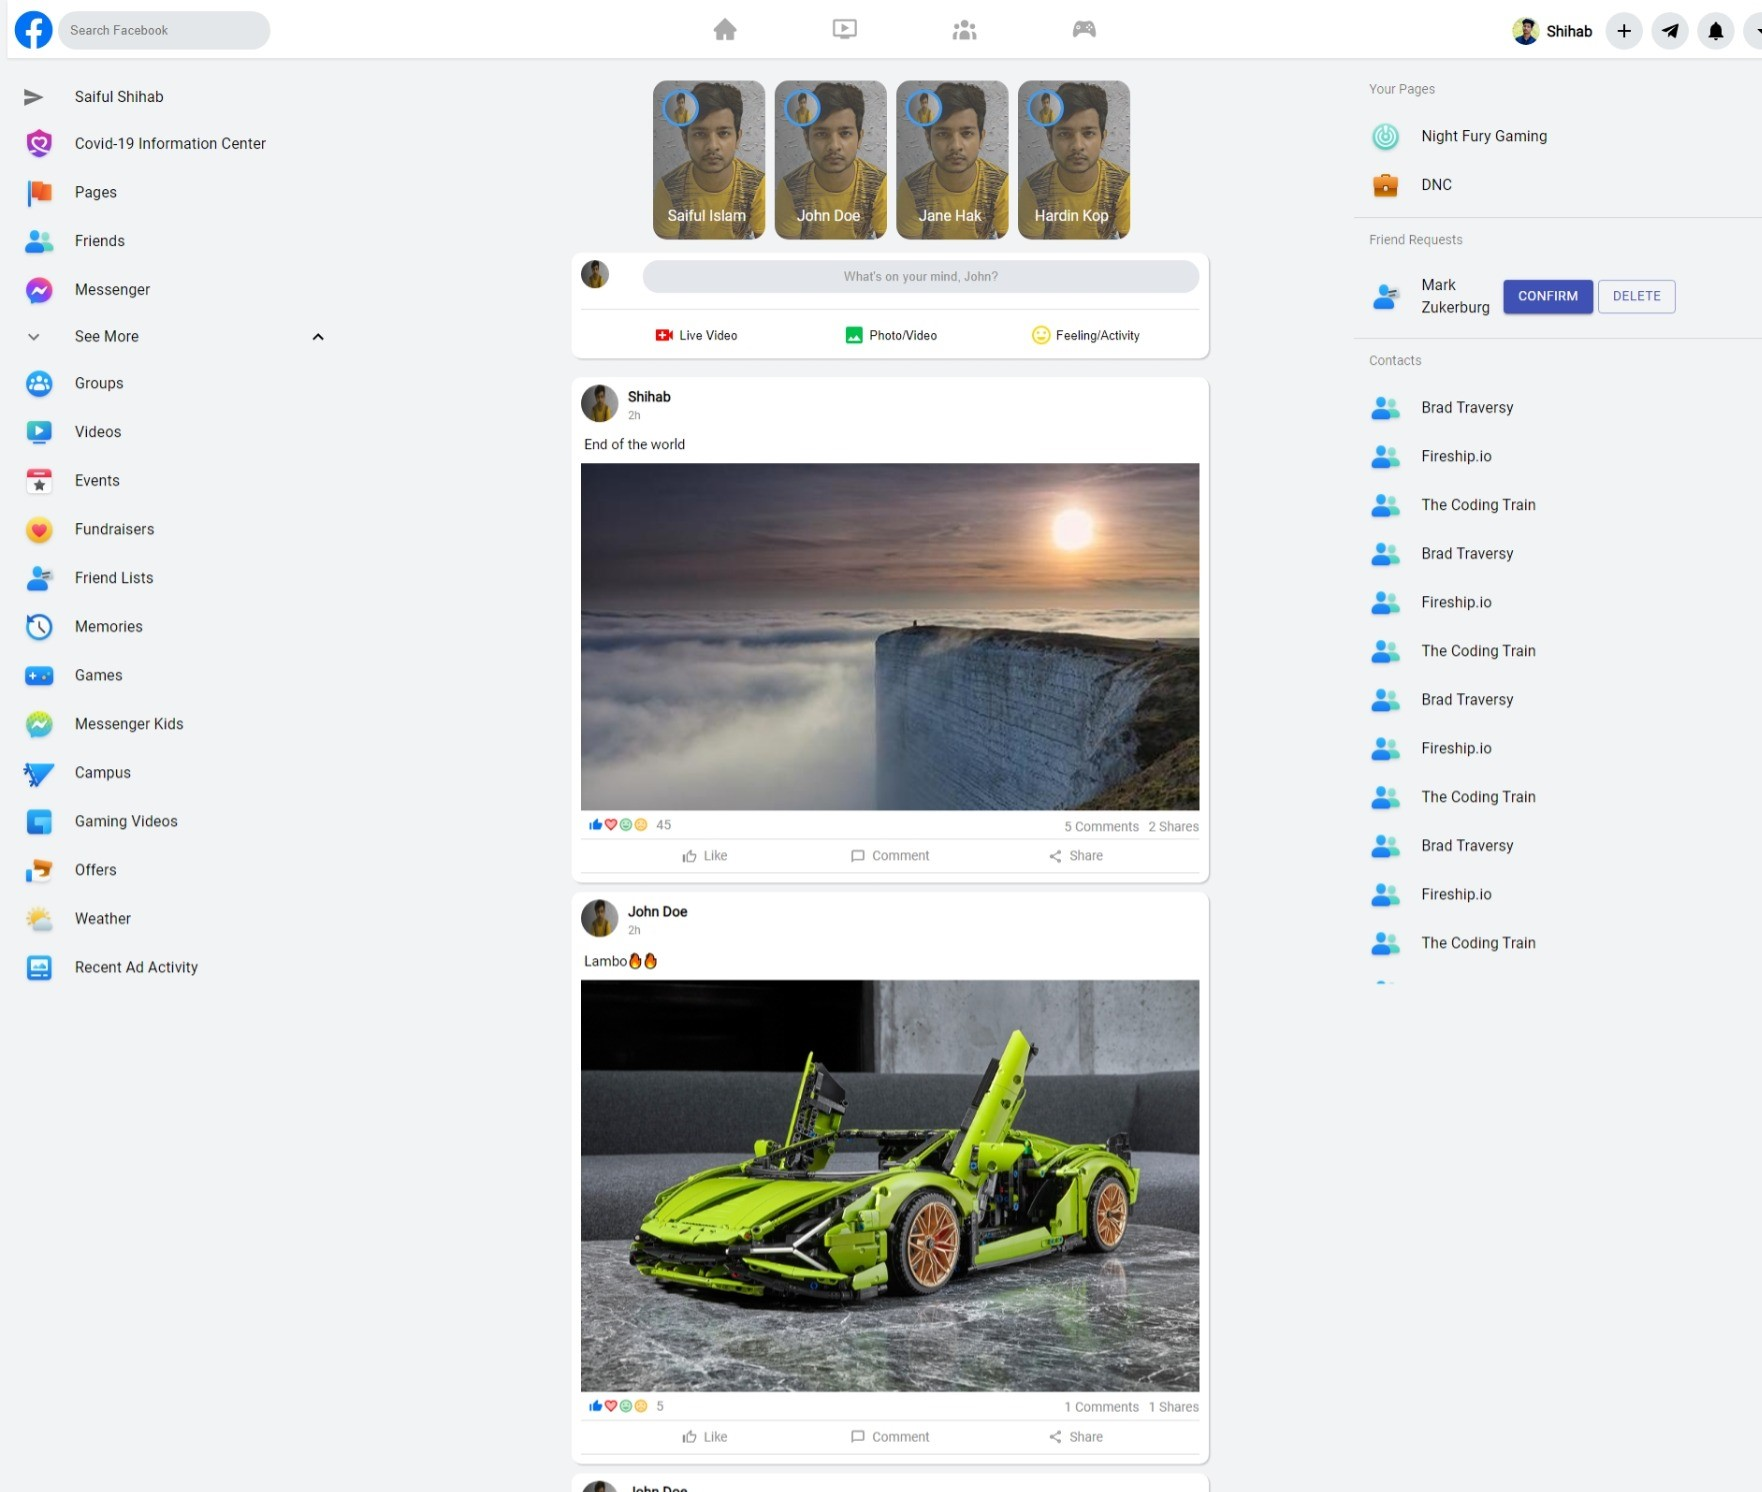
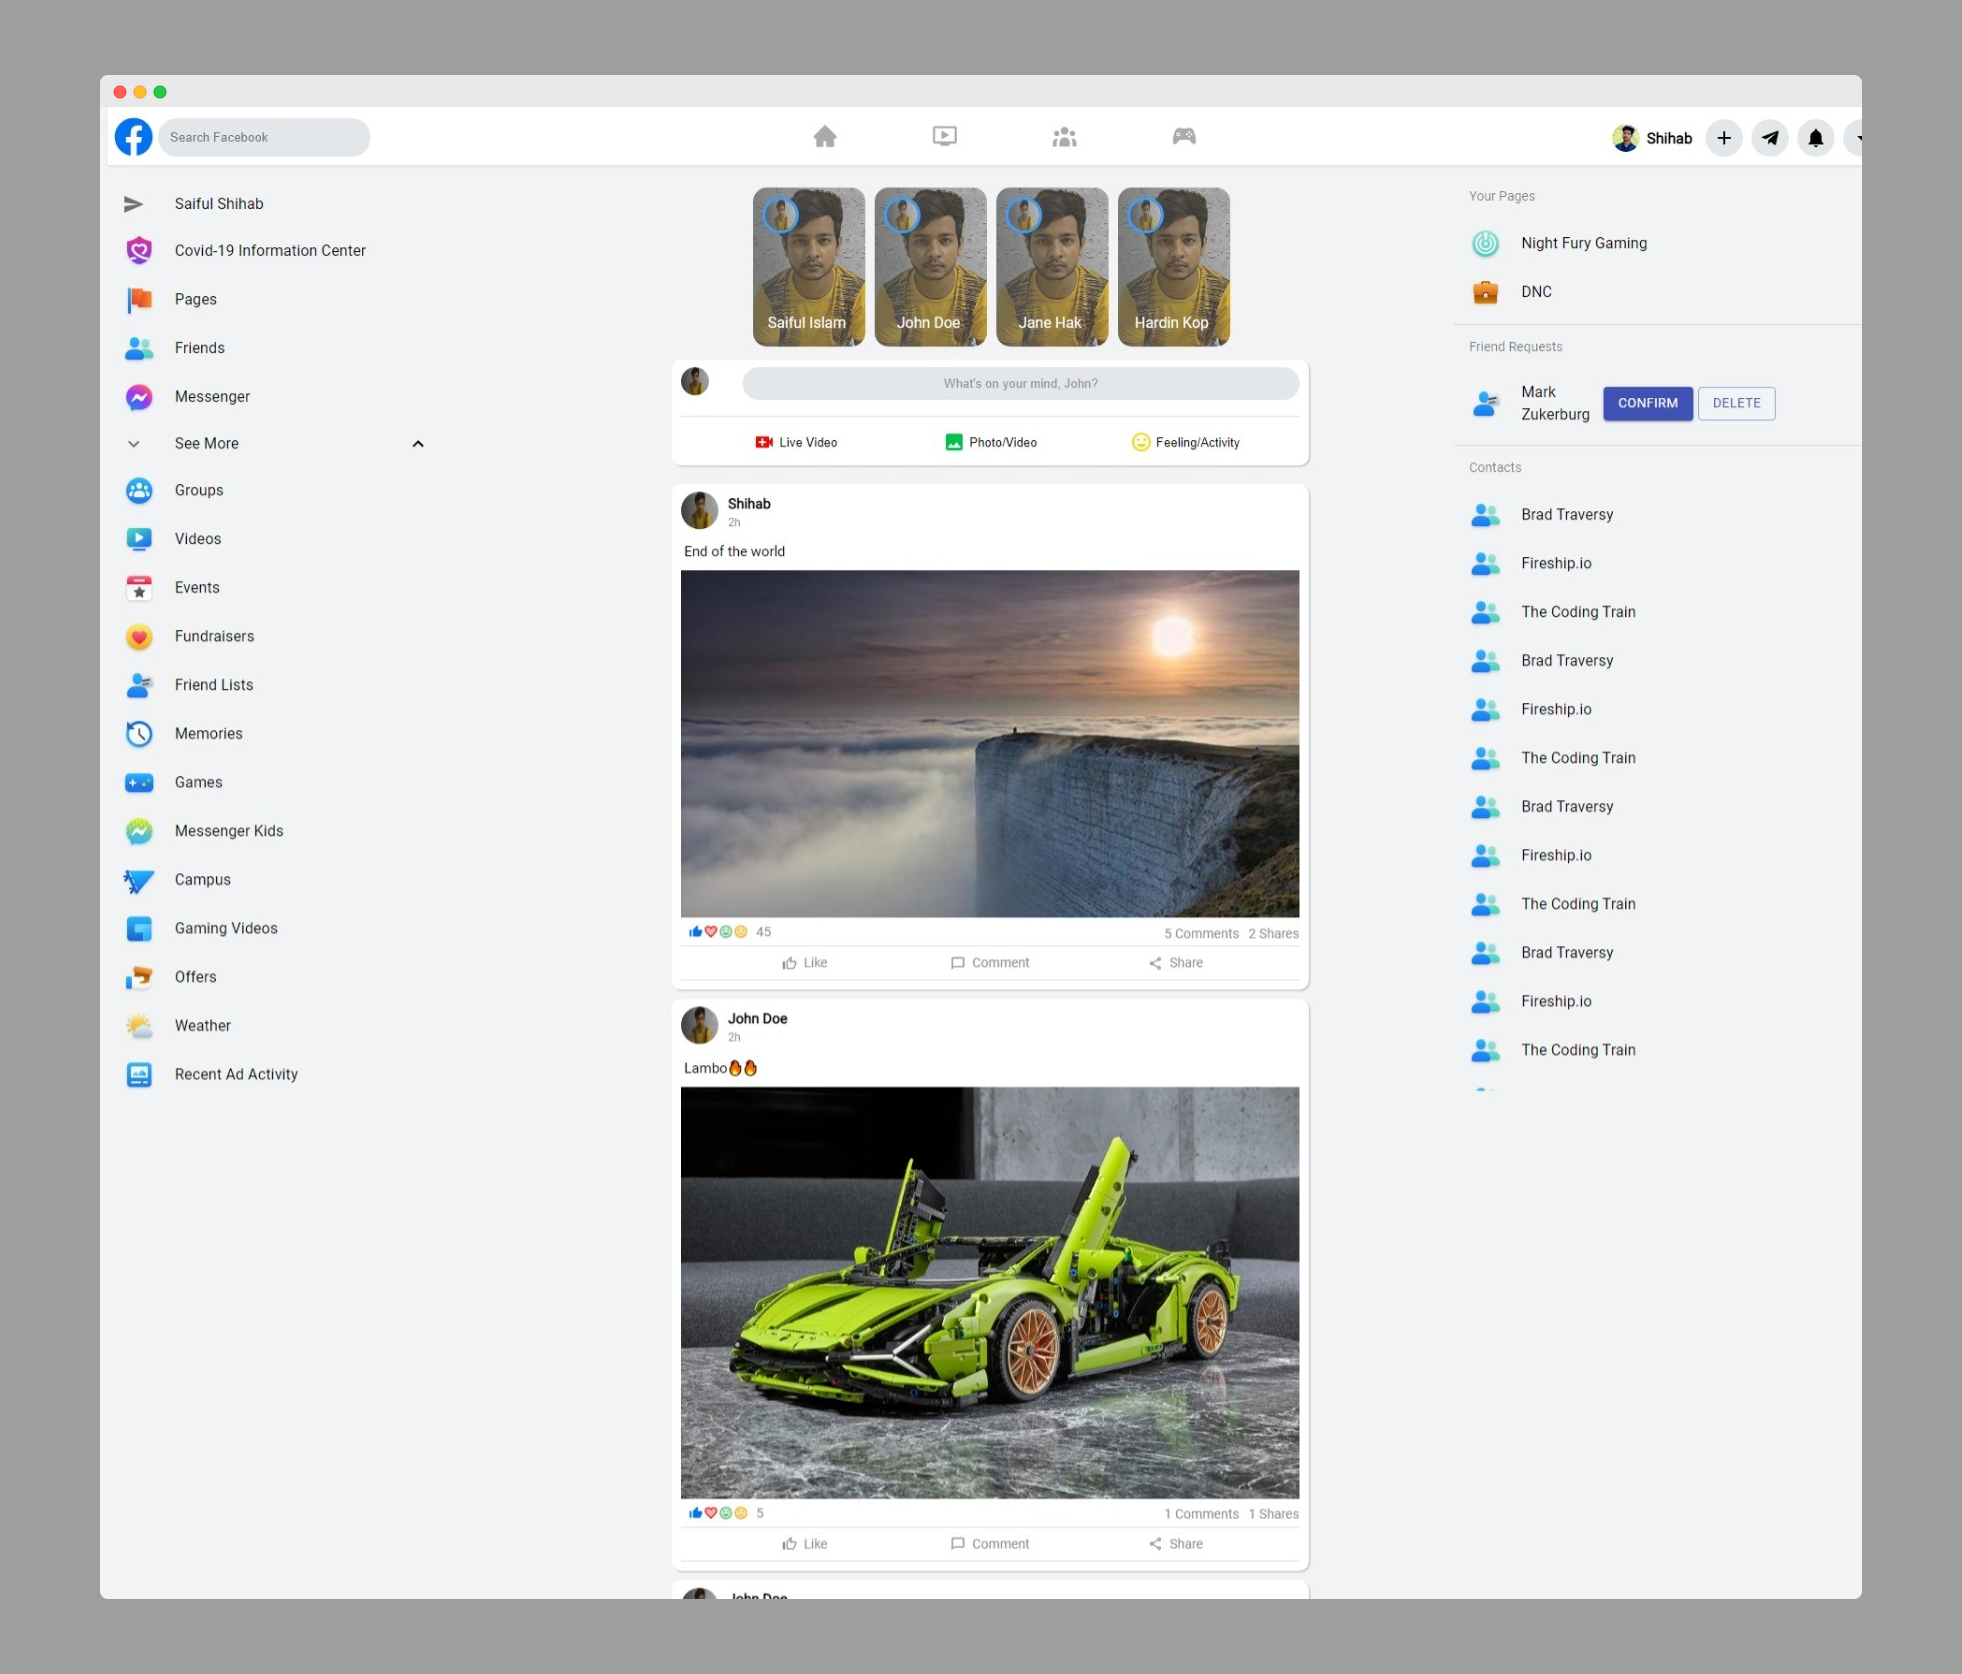
update readme

diff --git a/README.md b/README.md
@@ -2,4 +2,8 @@
 
 See Live Progress ➡ <a href="https://facebook-clone-f.netlify.app" target="_blank">https://facebook-clone-f.netlify.app</a> 🚀🚀
 
+# Screenshot
+
+<img src="src/assets/images/ss.jpeg" alt="screenshot" />
+
 License under the [MIT License](LICENSE)
